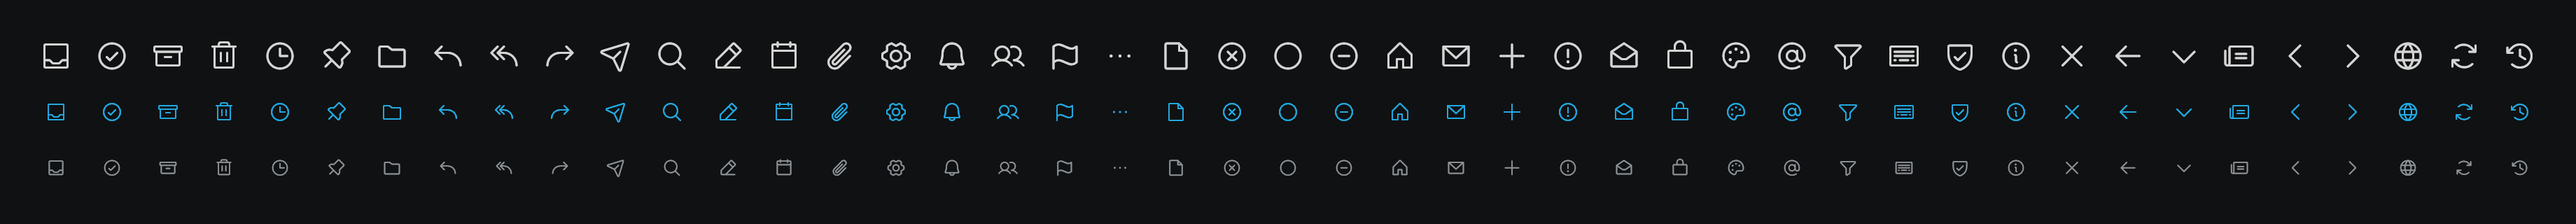
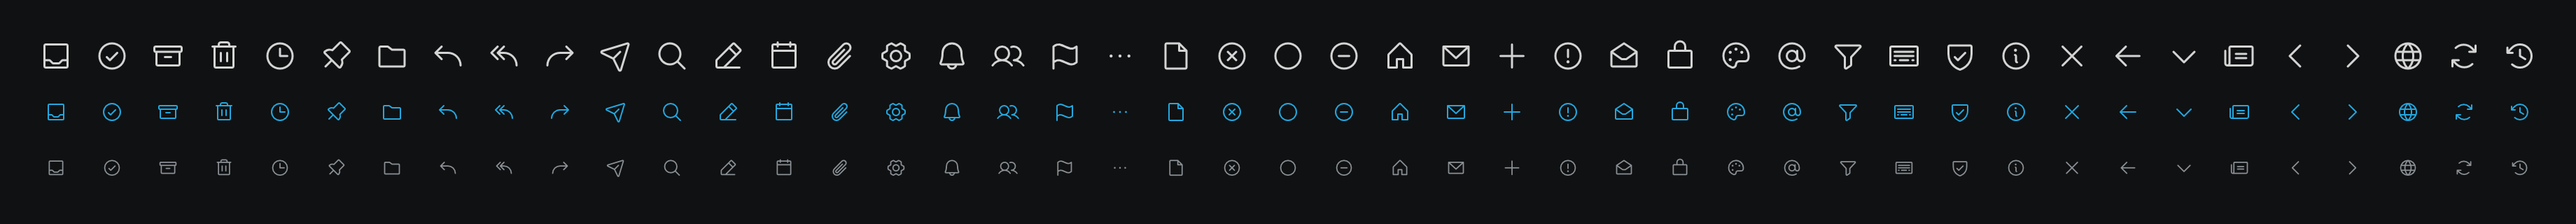
fix(ui): the gallery pictures take the app's style (#233)
The gallery and icon sheet shots drew with egui's default style, so
their dark text kept egui's boosted coverage while the app's did not.
Both now apply the theme's style as the app does.

Changed region(s): [[0.8438, 0.2188, 0.875, 0.2812], [0.625, 0.75, 0.6562, 0.7812], [0.3438, 0.2812, 0.375, 0.3125]]

diff --git a/crates/ui-egui/src/shot.rs b/crates/ui-egui/src/shot.rs
@@ -620,6 +620,8 @@ fn component_gallery(shot: &Shot, mode: Mode) -> Result<Picture, UiError> {
     paint(gallery::size(), shot.scale.unwrap_or(1.0), mode, |ui| {
         if std::mem::take(&mut fonts) {
             theme::install_fonts(ui.ctx());
+            // The app's own style, so the boards' text is drawn as the app draws it (coverage, hinting).
+            Theme::apply(ui.ctx(), &theme::Look::default());
         }
         gallery::page(ui, &theme, &keymap);
     })
@@ -633,6 +635,7 @@ fn icon_sheet(shot: &Shot, mode: Mode) -> Result<Picture, UiError> {
     paint(iconset::sheet_size(), shot.scale.unwrap_or(1.0), mode, |ui| {
         if std::mem::take(&mut fonts) {
             theme::install_fonts(ui.ctx());
+            Theme::apply(ui.ctx(), &theme::Look::default());
         }
         iconset::sheet(ui.painter(), &theme);
     })
